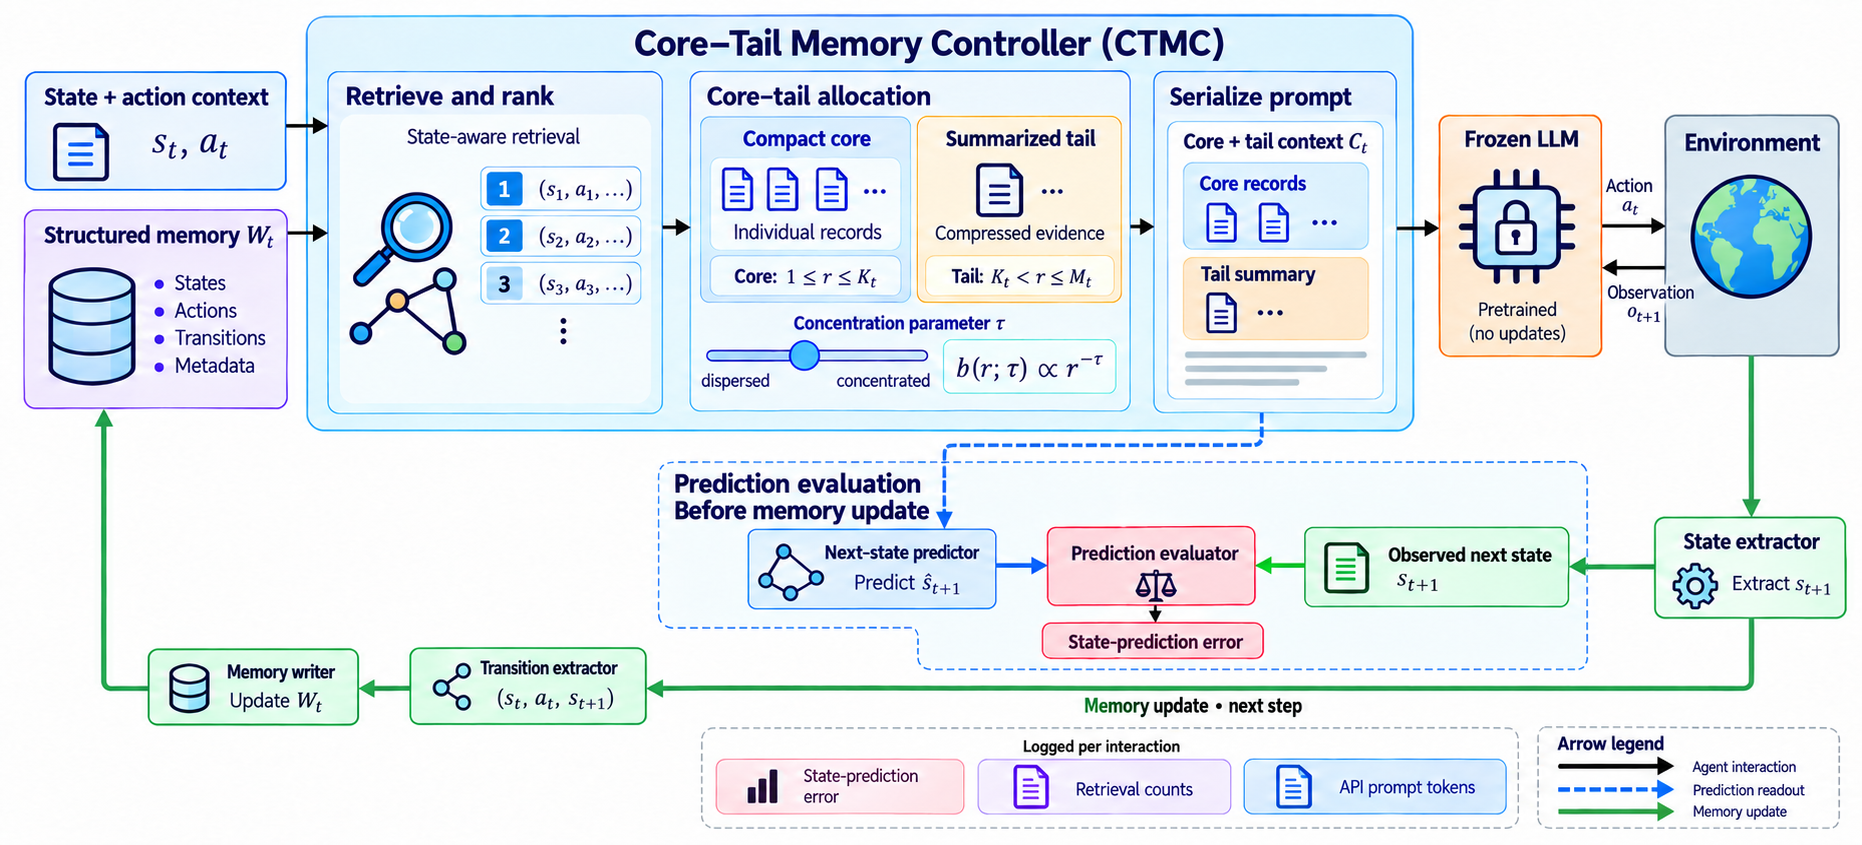
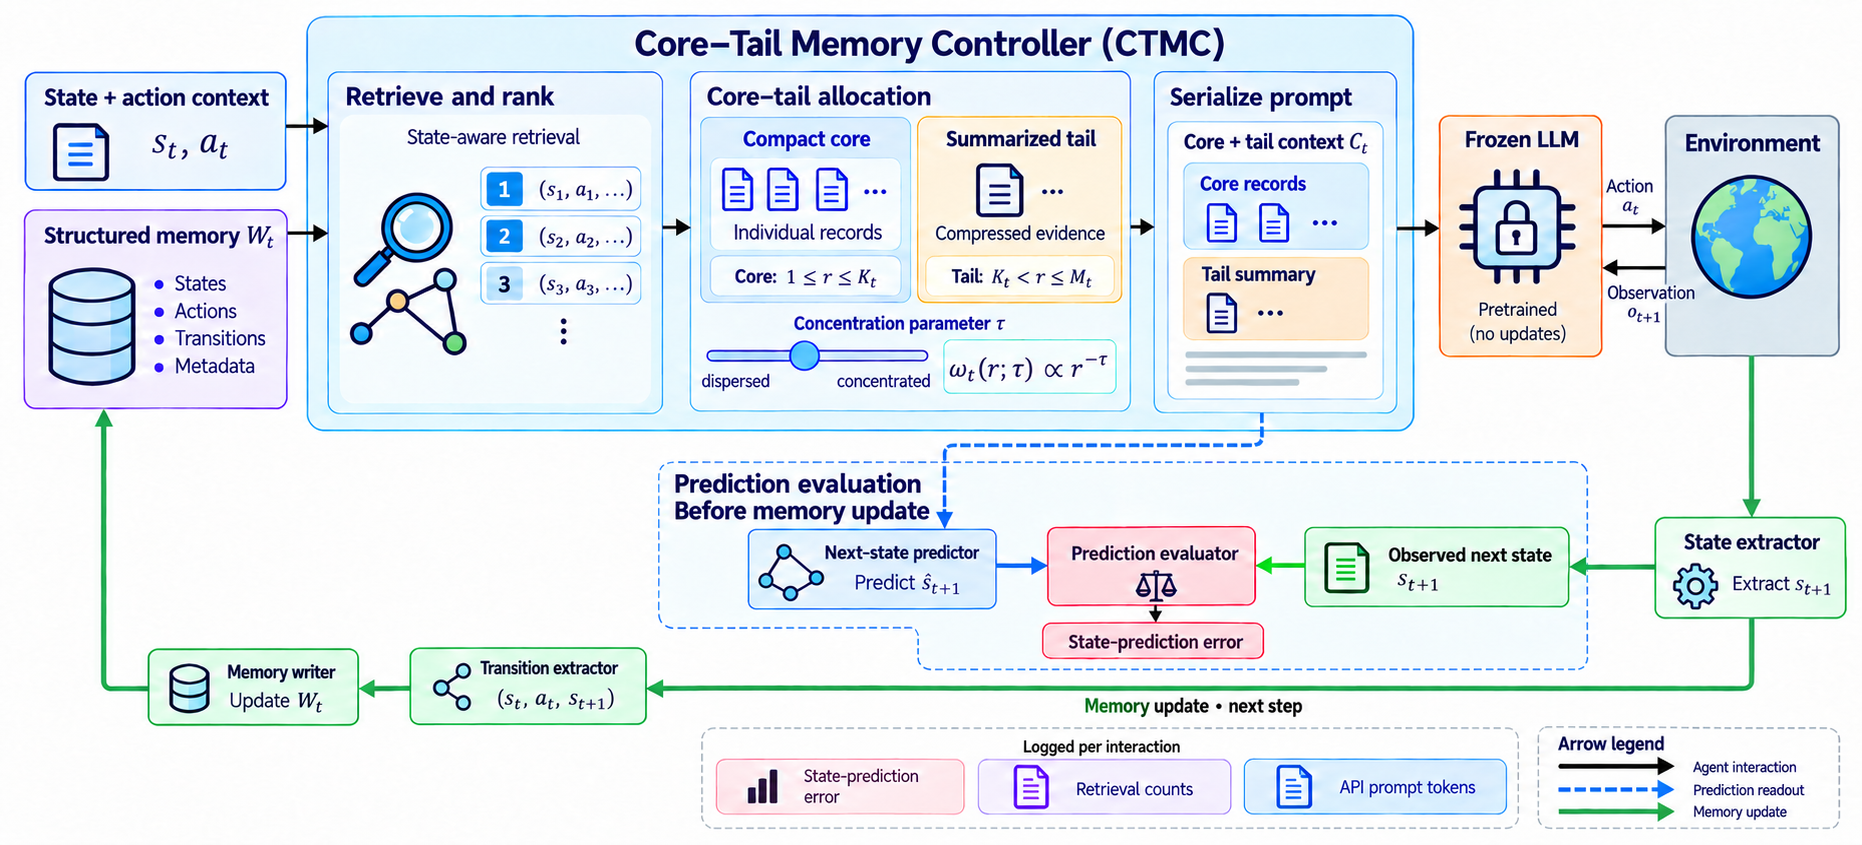
recent commit

diff --git a/README.md b/README.md
@@ -44,7 +44,7 @@ This repository studies heavy-tailed memory usage in long-horizon language agent
   <img src="assets/figures/figure2_ctmc_memory_audit.png" alt="Memory audit and CTMC allocation pipeline" width="100%">
 </p>
 
-**Figure 2. Memory audit and CTMC allocation pipeline.** Memory-access traces from random-walk and semantic LLM policies are audited for tail-family compatibility. The observed concentration motivates CTMC: retrieve and rank candidates, allocate the prompt budget according to `b(r; tau) ∝ r^(-tau)`, and combine a compact core with summarized lower-priority evidence.
+**Figure 2. Memory audit and CTMC allocation pipeline.** Memory-access traces from random-walk and semantic LLM policies are audited for tail-family compatibility. The observed concentration motivates CTMC: retrieve and rank candidates, allocate the prompt budget according to `ω_t(r; τ) ∝ r^(−τ)`, and combine a compact core with summarized lower-priority evidence.
 
 [Download Figure 2](assets/figures/figure2_ctmc_memory_audit.png)
 
